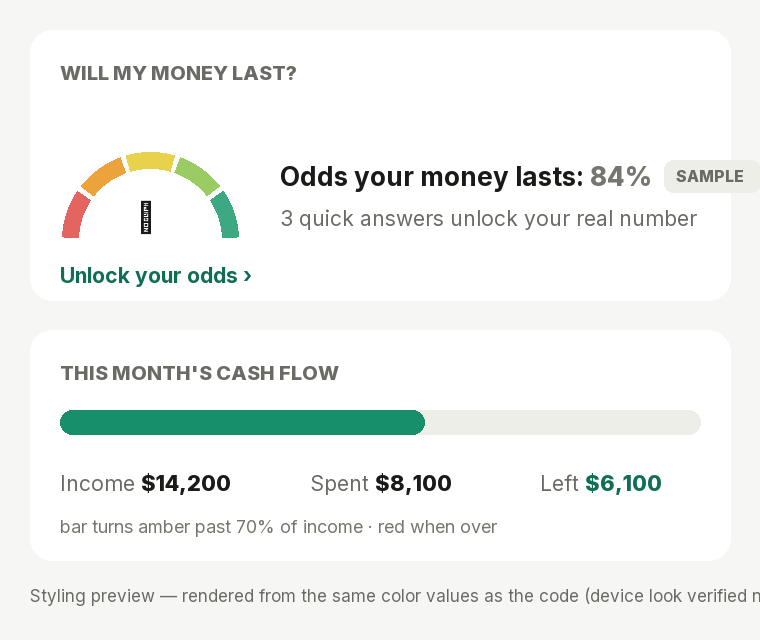
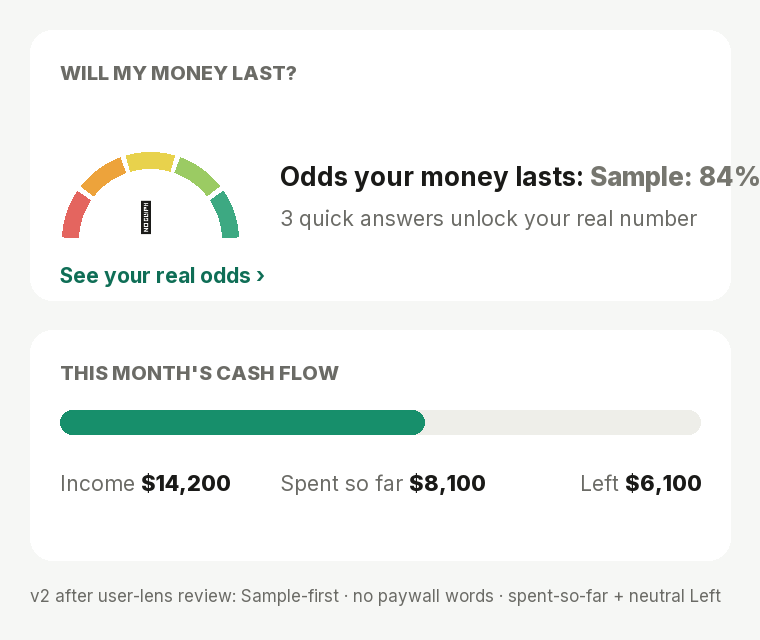
fix(FCC): Home cards — the three user-lens fixes, founder-approved
1) 'Sample: 84%' — the word FIRST, never believable as real even for a second
2) no paywall language: 'See your real odds ›' + a11y says 'questions, not a purchase'
3) 'Spent so far' + Left in neutral ink (affirming green belongs to safe-to-spend alone);
   a11y adds 'bills may still be coming'

Suite 1020 green · preview refreshed for the founder.

diff --git a/src/screens/HomeScreen.tsx b/src/screens/HomeScreen.tsx
@@ -300,7 +300,7 @@ export default function HomeScreen() {
          
           accessibilityLabel={wil.chance != null
             ? `Will my money last to ${wil.horizonAge}: ${chanceWord(wil.chance)}, ${wil.chance} percent, an estimate. Opens Plan.`
-            : 'Will my money last: sample gauge showing 84 percent, a sample, not your number. Three quick answers unlock your real odds. Opens Plan.'}>
+            : 'Will my money last: sample gauge showing sample 84 percent, not your number. Three quick answers show your real odds — questions, not a purchase. Opens Plan.'}>
           <Text style={styles.boxLabel}>WILL MY MONEY LAST?{wil.chance != null ? ` — to ${wil.horizonAge}` : ''}</Text>
           {wil.chance != null ? (
             <Text style={styles.wilTxt}>{chanceWord(wil.chance)} — {wil.chance}% <Text style={styles.wilEst}>— estimate</Text></Text>
@@ -318,20 +318,19 @@ export default function HomeScreen() {
               </View>
               <View style={{ flex: 1 }}>
                 <View style={styles.gaugeLine}>
-                  <Text style={styles.gaugeBlank}>Odds your money lasts: <Text style={styles.gaugeSampleNum}>84%</Text></Text>
-                  <View style={styles.samplePill}><Text style={styles.samplePillTxt}>SAMPLE</Text></View>
+                  <Text style={styles.gaugeBlank}>Odds your money lasts: <Text style={styles.gaugeSampleNum}>Sample: 84%</Text></Text>
                 </View>
                 <Text style={styles.wilInvite}>3 quick answers unlock your real number</Text>
               </View>
             </View>
           )}
-          <Text style={styles.heroLink}>{wil.chance != null ? 'See the full picture ›' : 'Unlock your odds ›'}</Text>
+          <Text style={styles.heroLink}>{wil.chance != null ? 'See the full picture ›' : 'See your real odds ›'}</Text>
         </TouchableOpacity>
 
         {/* THIS MONTH'S CASH FLOW — the dashboard readout (founder 2026-07-15): income vs spending
             at a glance, the SAME two figures the month math above uses (thisMonthNet / bva) */}
         <TouchableOpacity accessibilityRole="button" style={styles.box} activeOpacity={0.85} onPress={() => router.push('/(tabs)/cashflow')}
-          accessibilityLabel={`This month's cash flow: income ${maskedMoney(Math.round(thisMonthNet))}, spent ${maskedMoney(Math.round(bva.spent_total))}, ${thisMonthNet - bva.spent_total >= 0 ? `${maskedMoney(Math.round(thisMonthNet - bva.spent_total))} left` : `${maskedMoney(Math.round(bva.spent_total - thisMonthNet))} over`}. Opens the Cash flow tab.`}>
+          accessibilityLabel={`This month's cash flow: income ${maskedMoney(Math.round(thisMonthNet))}, spent so far ${maskedMoney(Math.round(bva.spent_total))}, ${thisMonthNet - bva.spent_total >= 0 ? `${maskedMoney(Math.round(thisMonthNet - bva.spent_total))} left, bills may still be coming` : `${maskedMoney(Math.round(bva.spent_total - thisMonthNet))} over`}. Opens the Cash flow tab.`}>
           <Text style={styles.boxLabel}>THIS MONTH'S CASH FLOW</Text>
           <View style={styles.cfBarTrack}>
             <View style={[styles.cfBarFill, {
@@ -341,9 +340,9 @@ export default function HomeScreen() {
           </View>
           <View style={styles.cfRow}>
             <Text style={styles.cfCell}>Income <Text style={styles.cfNum}>{maskedMoney(Math.round(thisMonthNet))}</Text></Text>
-            <Text style={styles.cfCell}>Spent <Text style={styles.cfNum}>{maskedMoney(Math.round(bva.spent_total))}</Text></Text>
+            <Text style={styles.cfCell}>Spent so far <Text style={styles.cfNum}>{maskedMoney(Math.round(bva.spent_total))}</Text></Text>
             <Text style={styles.cfCell}>{thisMonthNet - bva.spent_total >= 0 ? 'Left ' : 'Over '}
-              <Text style={[styles.cfNum, { color: thisMonthNet - bva.spent_total >= 0 ? Colors.primaryDark : Colors.red }]}>{maskedMoney(Math.abs(Math.round(thisMonthNet - bva.spent_total)))}</Text>
+              <Text style={[styles.cfNum, thisMonthNet - bva.spent_total < 0 && { color: Colors.red }]}>{maskedMoney(Math.abs(Math.round(thisMonthNet - bva.spent_total)))}</Text>
             </Text>
           </View>
         </TouchableOpacity>
@@ -416,9 +415,7 @@ const styles = StyleSheet.create({
   gaugeLock: { position: 'absolute', alignSelf: 'center', top: 26, fontSize: 20 },
   gaugeBlank: { fontSize: 15, fontWeight: '700', color: Colors.textPrimary },
   gaugeLine: { flexDirection: 'row', alignItems: 'center', gap: 6, flexWrap: 'wrap' },
-  gaugeSampleNum: { fontWeight: '800', color: Colors.textTertiary },
-  samplePill: { backgroundColor: Colors.bgTertiary, borderRadius: 8, paddingHorizontal: 6, paddingVertical: 2 },
-  samplePillTxt: { fontSize: 10, fontWeight: '800', color: Colors.textSecondary, letterSpacing: 0.8 },
+  gaugeSampleNum: { fontWeight: '800', color: Colors.textTertiary, fontStyle: 'italic' },
   cfBarTrack: { height: 12, borderRadius: 6, backgroundColor: Colors.bgTertiary, marginTop: 10, overflow: 'hidden' },
   cfBarFill: { height: 12, borderRadius: 6 },
   cfRow: { flexDirection: 'row', justifyContent: 'space-between', marginTop: 10 },

diff --git a/src/screens/__tests__/first_run_lens.test.tsx b/src/screens/__tests__/first_run_lens.test.tsx
@@ -101,9 +101,9 @@ test('no odds captured → the locked gauge shows SAMPLE 84% (labeled), never an
     onboardingProfile: { status: 'employed', baseSalary: '8000', salaryMode: 'gross', salaryFreq: 'monthly', taxMode: 'manual', manualTaxRate: '20', name: 'Pat' },
   } as any);
   render(<HomeScreen />);
-  expect(screen.getByText('SAMPLE')).toBeOnTheScreen();                    // the uncroppable pill
+  expect(screen.getByText(/Sample: 84%/)).toBeOnTheScreen();               // the word comes FIRST — never believable as real
   expect(screen.getByText(/3 quick answers unlock your real number/)).toBeOnTheScreen();
-  expect(screen.getByLabelText(/sample, not your number/)).toBeOnTheScreen();
+  expect(screen.getByLabelText(/not your number.*questions, not a purchase/)).toBeOnTheScreen();
 });
 
 test("the cash-flow snapshot card: income/spent/left from the month's own figures", () => {
@@ -115,5 +115,5 @@ test("the cash-flow snapshot card: income/spent/left from the month's own figure
   } as any);
   render(<HomeScreen />);
   expect(screen.getByText("THIS MONTH'S CASH FLOW")).toBeOnTheScreen();
-  expect(screen.getByLabelText(/This month's cash flow: income \$6,000, spent \$1,200, \$4,800 left/)).toBeOnTheScreen();
+  expect(screen.getByLabelText(/This month's cash flow: income \$6,000, spent so far \$1,200, \$4,800 left, bills may still be coming/)).toBeOnTheScreen();
 });
